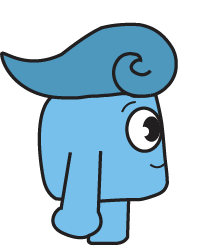
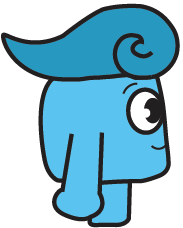
players resized

diff --git a/Level1/level1.js b/Level1/level1.js
@@ -66,10 +66,10 @@ let player1Image;
 let player2Image;
 
 //player1
-let p1X = 50;
-let p1Y = 51;
-let p1Width = 45;
-let p1Height = 53;
+let p1X = 60;
+let p1Y = 50;
+let p1Width = 40;
+let p1Height = 50;
 let player1 = {
 
   jump: false, //the stage when its on the ground, 1: jumping upwards, 2: fall
@@ -82,9 +82,9 @@ let player1 = {
 };
 
 //player2
-let p2X = 20;
+let p2X = 15;
 let p2Y = 50;
-let p2Width = 40;
+let p2Width = 45;
 let p2Height = 50;
 let player2 = {
   jump: false,
